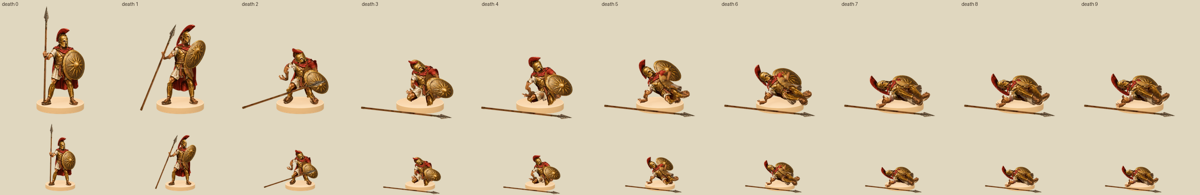
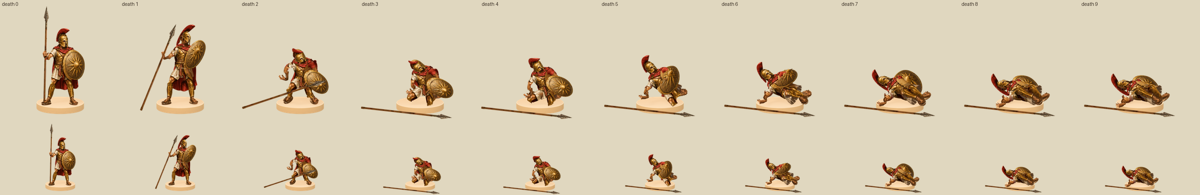
3D spearman interim review images

diff --git a/tools/art/anim3d/review/spearman-fable-d-note.md b/tools/art/anim3d/review/spearman-fable-d-note.md
@@ -19,12 +19,13 @@ Not a PASS claim: two motion candidates for the round-13 merge.
 
 The collapse is kept through the drop to the knees (recoil, knees give with the feet planted, on the knees). From there:
 
-- **End pose.** He lies on his spear side facing the camera, half rolled onto his back (roll 0.55 rad), knees drawn up, head and crest on the stone and turned out toward the viewer, spear arm lying out in front. Pelvis rests at x = +0.24 m (it was -0.04), with a 0.2 rad turn about the vertical, so head, torso and feet are over the disc; the crest tip is at the left rim instead of 30 px past it.
-- **Shield.** The round-12 pose kept the aspis strapped to the forearm, and wherever that arm lay the shield covered him. Now the dying arm is flung up as his shoulder hits the stone, the shield slips off the forearm band, goes over his side in one frame and lands on its rim behind him, leaning on his back with the face to the camera. The whole body is in front of it; the upper part of the sunburst shows above his waist. It is never hidden or scaled: `place_shield` blends the control from the arm to a world rest (`SHIELD_REST`) by a keyed weight with an arc, and is re-applied after the floor fit so the rest stays put.
-- **Arms** come to rest on things in the world (new `arm_w`, `hand_*_w`, `elbow_*_w` channels), not at a place in the chest's frame.
+- **End pose.** He lies on his spear side facing the camera, rolled 0.70 rad toward his back, knees drawn up, head and crest on the stone and turned out toward the viewer, spear arm lying out in front. Pelvis rests at x = +0.22 m (it was -0.04), with a 0.2 rad turn about the vertical: head top at x = -0.59, toes at +0.59 on a stone of radius about 0.58, so the crest tip is at the left rim instead of 30 px past it and the feet are at the right rim.
+- **Shield.** The round-12 pose kept the aspis strapped to the forearm, and wherever that arm lay the shield covered him. Now the shield arm goes limp across his flank as his shoulder hits the stone, and the aspis slides off the forearm band: it tips face-up across his side (frames 5-6, lying on him like a lid, never above him), then goes down onto its rim behind him and leans on his back with the face to the camera (frame 7 on). The whole body is in front of it; the upper part of the sunburst shows above his waist. It is never hidden or scaled: `place_shield` blends the control from the arm to a world rest (`SHIELD_REST`) by a keyed weight, turning through face-up at the half-way point, and is re-applied after the floor fit so the rest stays put.
+- **Arms** come to rest on things in the world (new `arm_w`, `hand_*_w`, `elbow_*_w` channels), not at a place in the chest's frame. The shield arm ends behind his back, toward the shield.
 - **Spear** (art director 06:16Z, item 6): tips and drops over a shorter span (`release/.56`, `/.58`), so it is level on the ground by frame 3 and no longer lies across the kneeling body; frame 2 still crosses the thighs mid-fall. Landing place unchanged.
-- **Timing.** Keys at 0, .09, .21, .32 (as before), topple .45, strike .65, settle .80, rest .96. Delivered frames: 0 guard, 1 recoil, 2 knees give, 3 on the knees, 4 sagging, 5 down with the shield in the air, 6 shield coming down behind, 7 settled, 8 = 9 held.
-- **Floor fit.** Pelvis 0.355 m and fall 1.49 rad put the hip (on its pteruges) and the shoulder on the stone together; the solver's lift at rest is 16 mm. The 10-frame audit has 0 findings (a first try that left the pteruges out of the fit put them 5 cm into the stone; that was reverted).
+- **Timing.** Keys at 0, .09, .21, .32 (as before), topple .47, strike .72, settle .88, rest .97. Delivered frames: 0 guard, 1 recoil, 2 knees give, 3 on the knees, 4 sagging over the spear-side knee, 5 mid-fall, 6 down with the shield across his flank, 7 settling with the shield going onto its rim, 8 = 9 held. The knees stay planted until the topple key (letting go earlier made him rise 5-9 cm before falling).
+- **Floor fit.** Pelvis 0.34 m and fall 1.49 rad put the hip (on its pteruges) and the shoulder on the stone together; the solver's lift at rest is 18 mm. The 40-pose audit has 0 findings (a first try that left the pteruges out of the fit put them 5 cm into the stone; that was reverted).
+- **Art director's two reviews of earlier versions (06:40Z, 06:51Z)** are answered by the above: no raised shield (it tips over him), knees drawn up with the feet at the rim, one more frame in the drop and only the required two-frame hold at the end.
 
 ### 2. Walk (`units/spearman/motion.py: WalkLayer`, hooks in `animate.py`, optional `rotations` in `kit/retarget.contact_ik`)
 
@@ -54,6 +55,6 @@ Feet check on the baked clip (all limits pass, none relaxed): compensated slip 0
 
 ## Open
 
-- Only the top 40% of the shield shows behind him. Lying further onto his back would show more of it and more of the crest, at the cost of the cuirass facing the camera.
+- Only the top 40% of the shield shows behind him in the held frame (frame 7 shows most of it). A rest rolled 1.0 rad onto his back fanned the crest fully but raised the knees over the shield; legs dropped toward the camera hung off the front rim. The art director still ranks round 12's face-down ending first on calmness at 64 px; this is offered as the alternative that shows the man.
 - Death frame 2: the falling spear still crosses the thighs for one frame.
 - The base mesh's widest vertices are at 0.77 m while the stone top is about 0.58 m, so the death floor fit treats a ring of air around the stone as stone. Nothing rests there in this pose; worth fixing in the kit.
